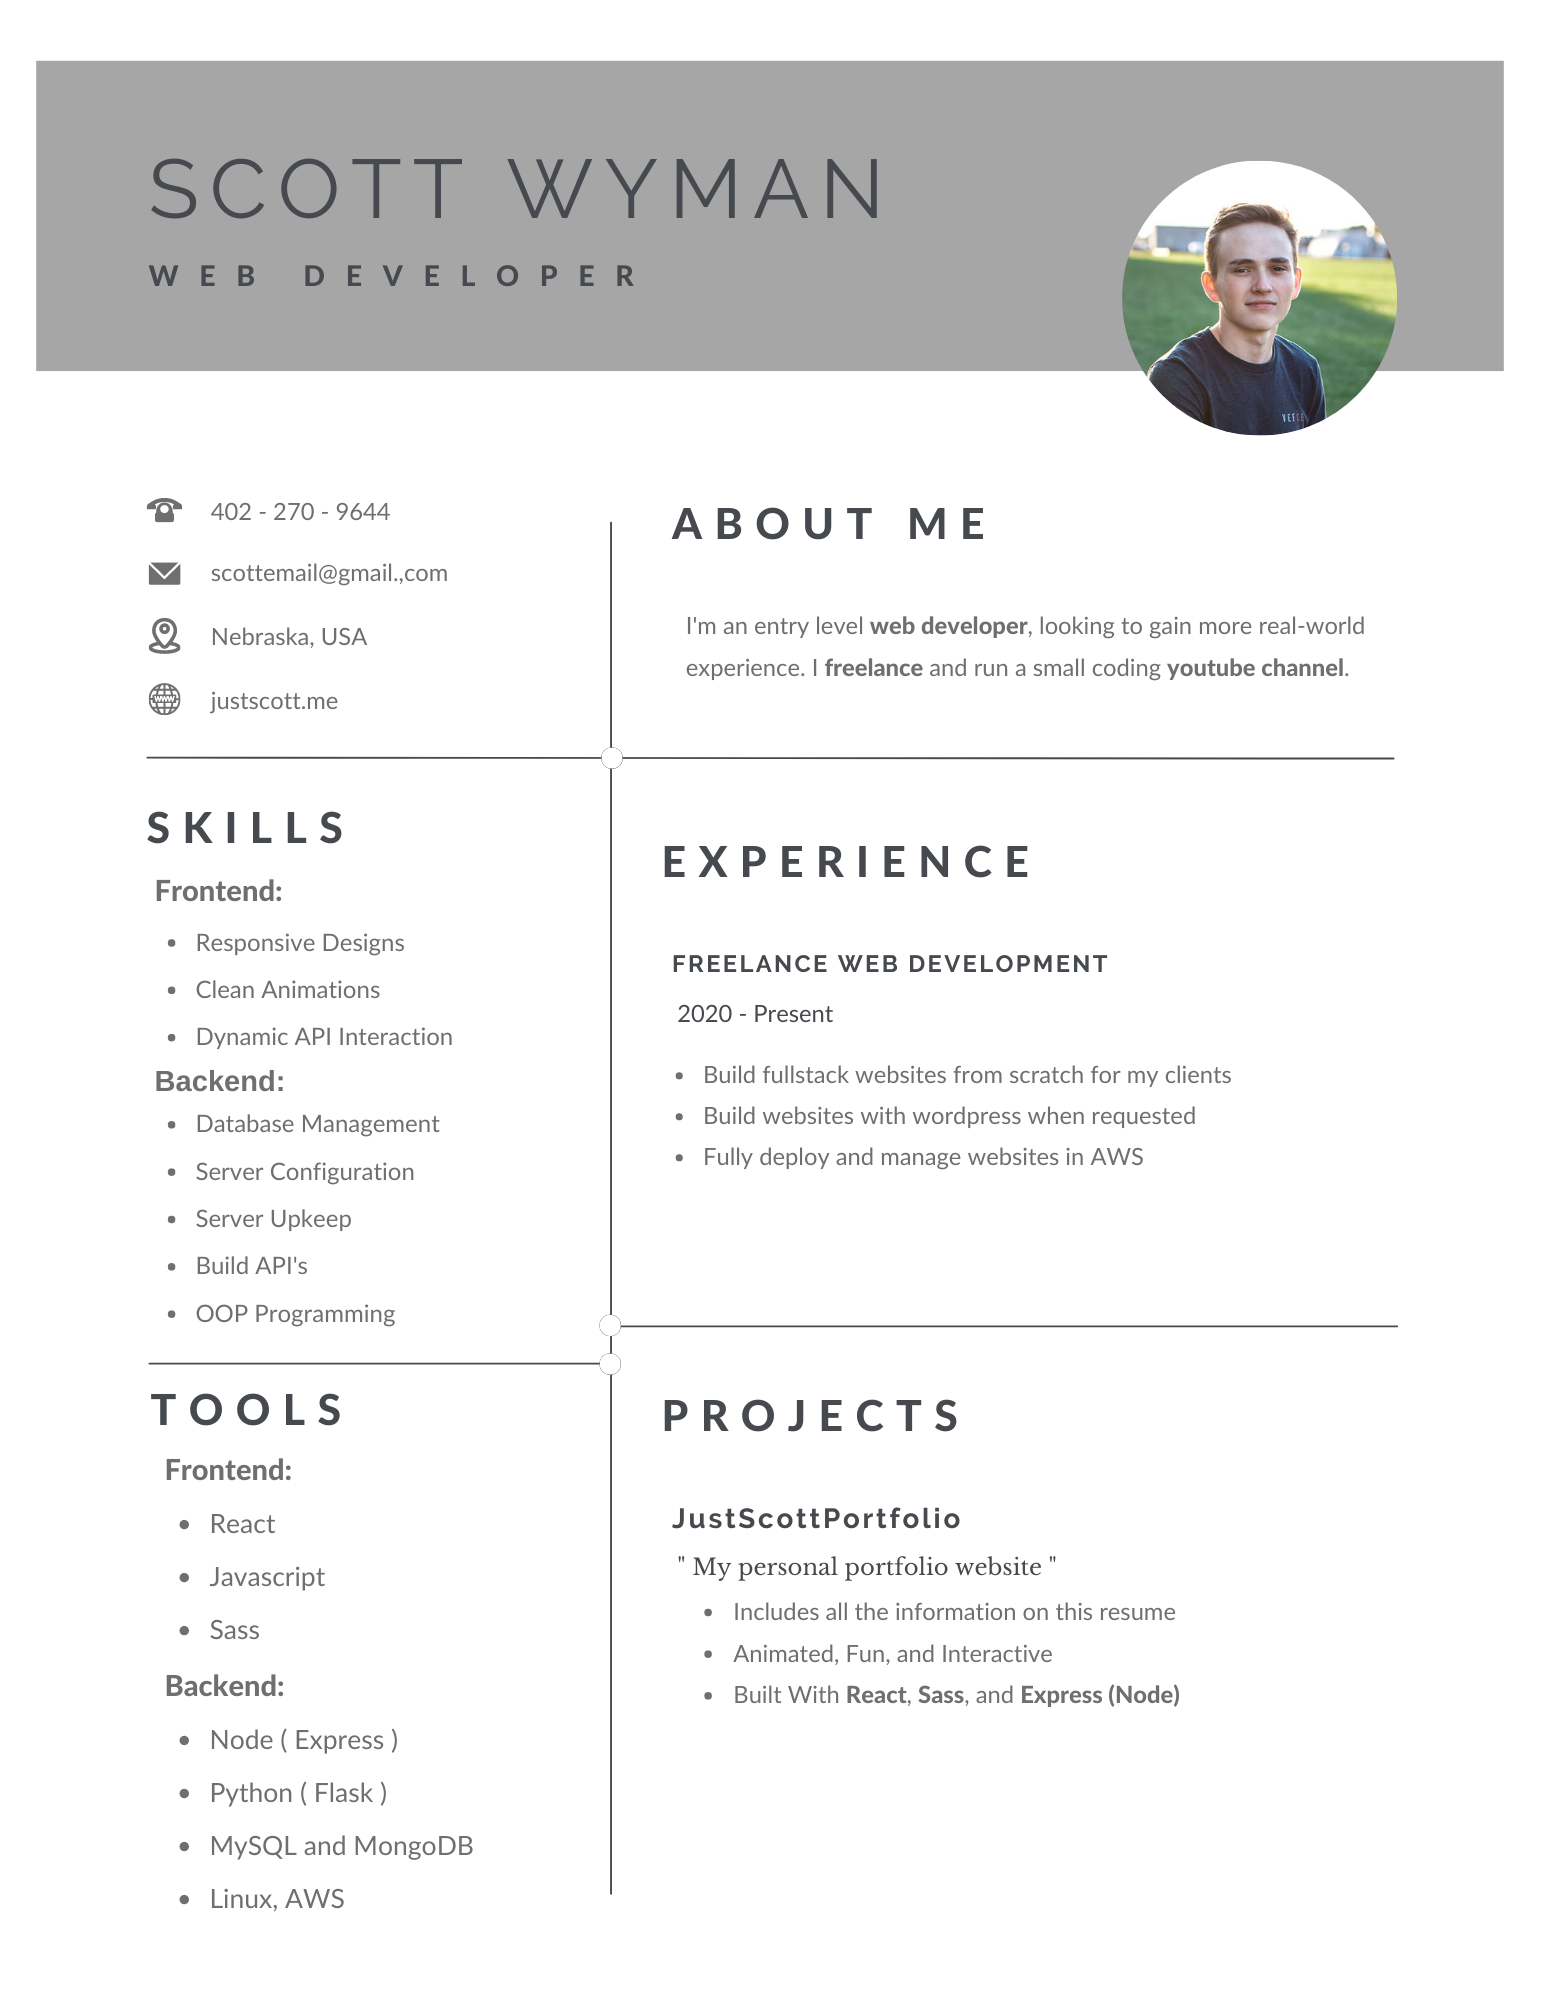
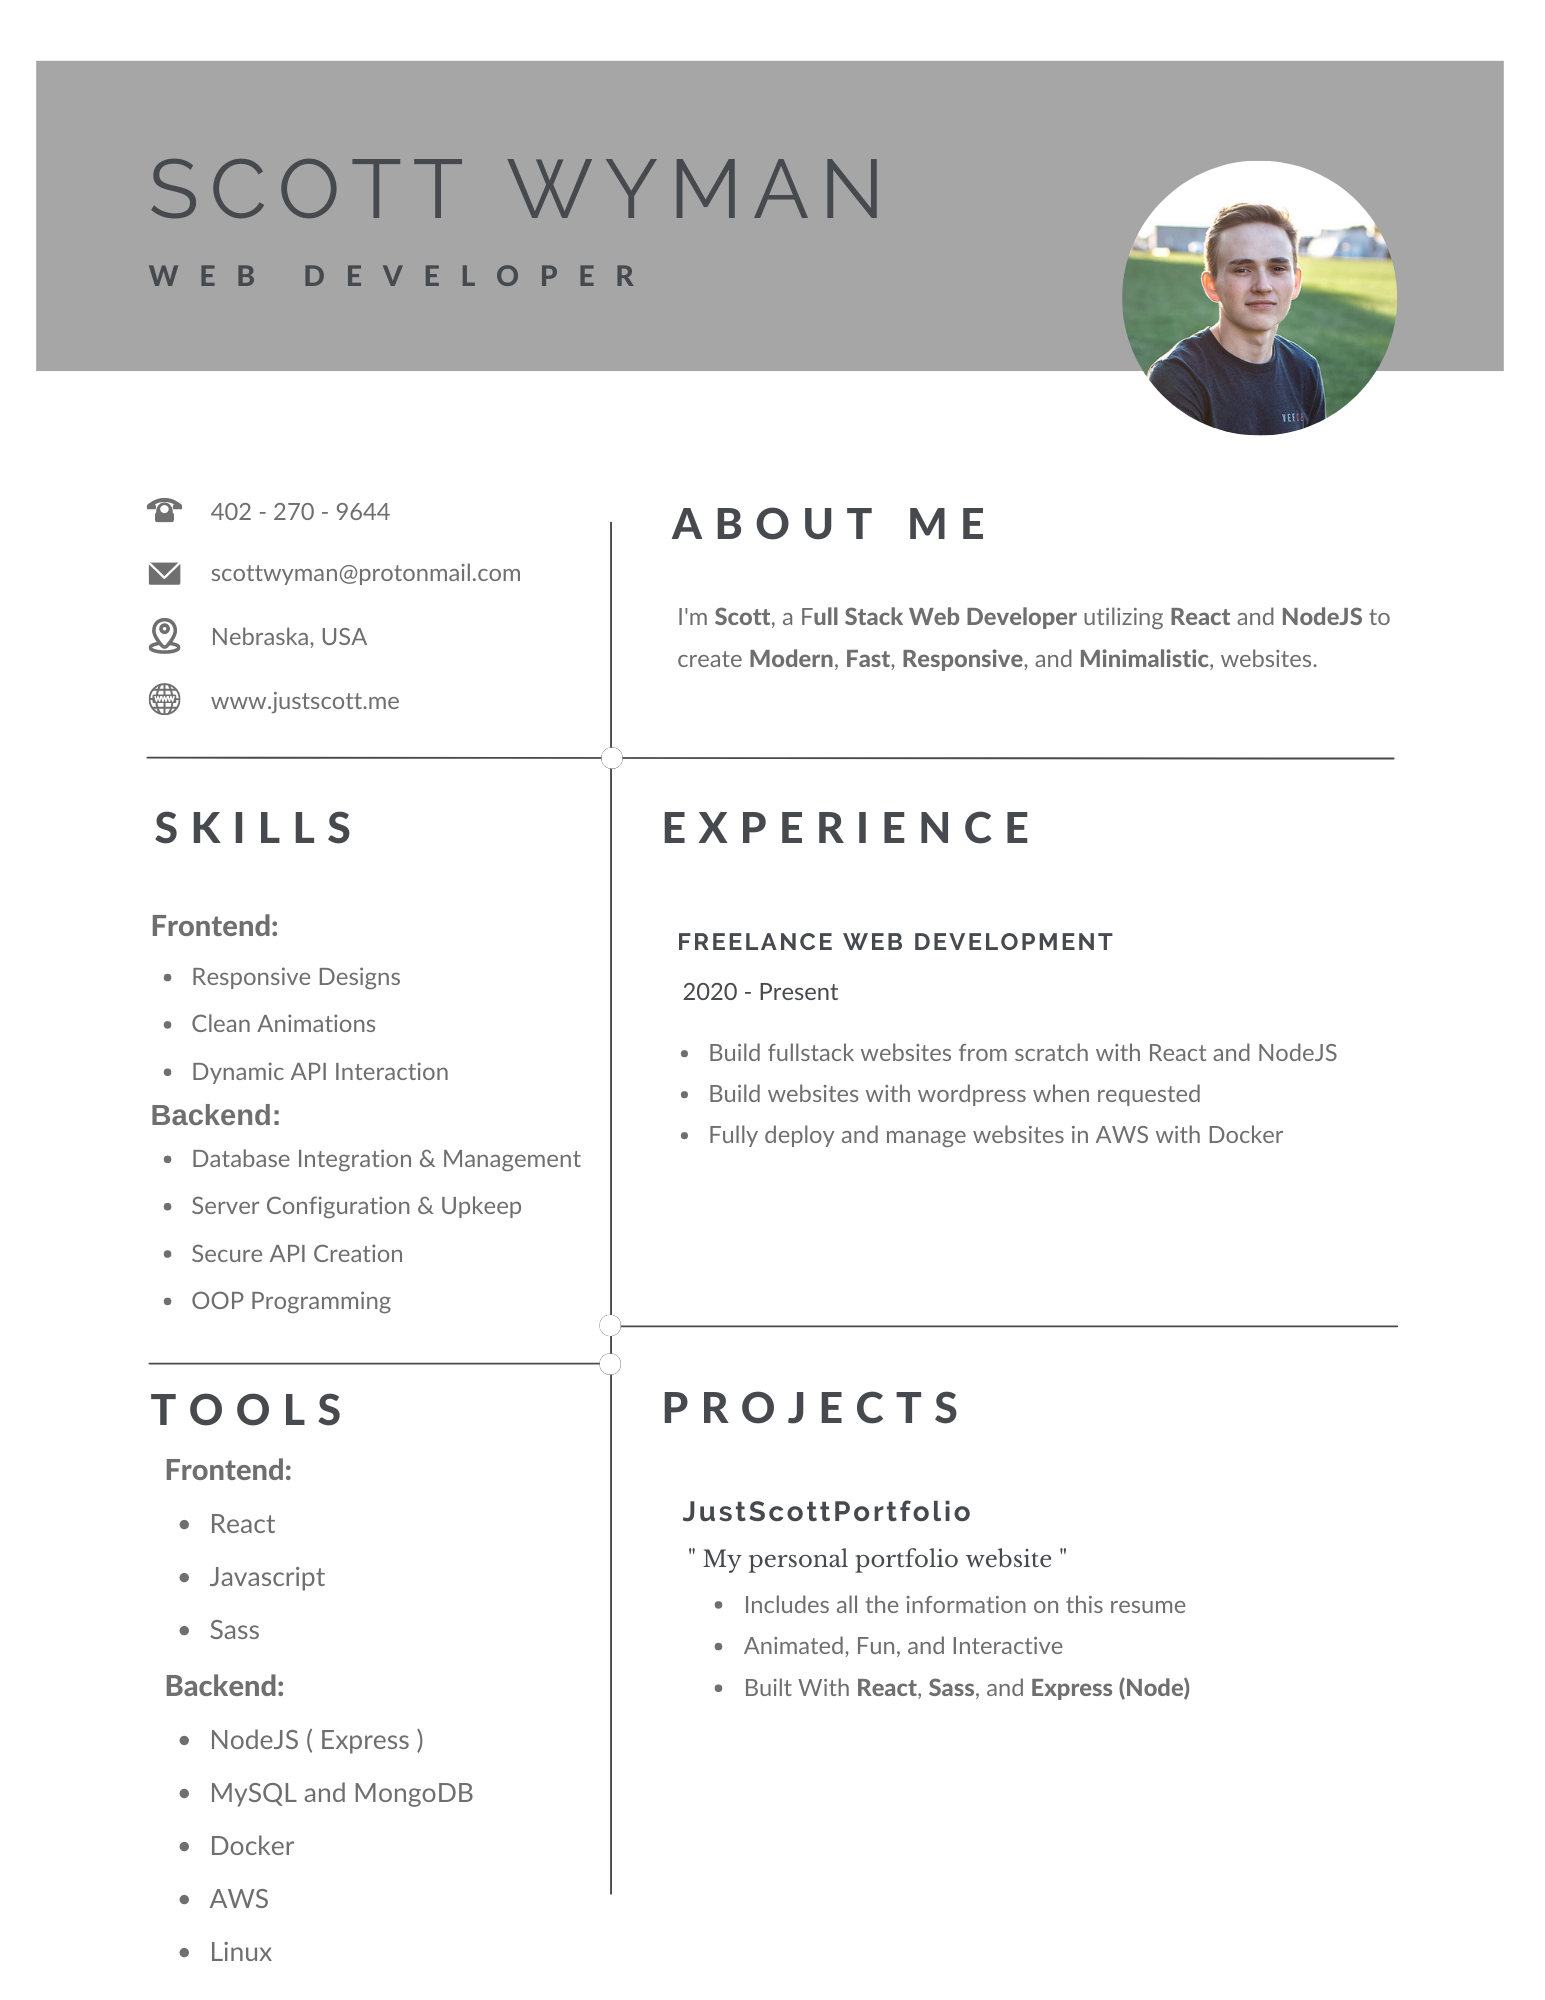
Updated the resume, animations, and text content

diff --git a/react-app/src/components/Home.js b/react-app/src/components/Home.js
@@ -39,16 +39,15 @@ export default class Home extends React.Component {
 function Intro() {
     return (
         <div className='intro_section' id='intro_section'>
-            <img src='bodyshot.jpg' alt='Me'/>
+            <img src='headshot.png' alt='Me' className='intro_img_mobile'/>
+            <img src='bodyshot.jpg' alt='Me' className='intro_img_desktop'/>
             <div className='text_side'>
                 <p className='desktop_about_text'>
-                    This is filler text about me an what I do, this should be
-                    around two sentences long. So that means I need to make this
-                    another sentence long just like this.
+                    I'm <b>Scott</b>, a <b>Full Stack Web Developer</b> utilizing <b>React</b> and <b>NodeJS</b> to create  
+                    <b> Modern, Fast, Responsive</b>, and <b>Minimalistic</b>, websites.
                 </p>
                 <p className='mobile_about_text'>
-                    This is mobile filler text, that will be much more consice to save
-                    space.
+                    I'm <b>Scott</b>. I create <b> Modern</b>, <b>Fast</b>, <b>Responsive</b>, and <b>Minimalistic</b>, websites.
                 </p>
                 <button onClick={() => {window.print()}}>Resume</button>
             </div>
@@ -65,13 +64,13 @@ function Skills() {
                     <p className='selected_item_text'>Click a Logo to learn more.</p>
                 </div>
                 <img src='python_logo.png' alt='Python Logo' onClick={() => {updateText('Python')}}/>
-                <img src='node_logo.png' alt='Python Logo' onClick={() => {updateText('Node')}}/>
-                <img src='react_logo.png' alt='Python Logo' onClick={() => {updateText('React')}}/>
-                <img src='sass_logo.png' alt='Python Logo' onClick={() => {updateText('Sass')}}/>
-                <img src='mysql_logo.png' alt='Python Logo' onClick={() => {updateText('MySQL')}}/>
-                <img src='mongodb_logo.png' alt='Python Logo' onClick={() => {updateText('MongoDB')}}/>
-                <img src='aws_logo.png' alt='Python Logo' onClick={() => {updateText('AWS')}}/>
-                <img src='linux_logo.png' alt='Python Logo' onClick={() => {updateText('Linux')}}/>
+                <img src='node_logo.png' alt='Node Logo' onClick={() => {updateText('Node')}}/>
+                <img src='react_logo.png' alt='React Logo' onClick={() => {updateText('React')}}/>
+                <img src='sass_logo.png' alt='Sass Logo' onClick={() => {updateText('Sass')}}/>
+                <img src='mysql_logo.png' alt='MySQL Logo' onClick={() => {updateText('MySQL')}}/>
+                <img src='mongodb_logo.png' alt='MongoDB Logo' onClick={() => {updateText('MongoDB')}}/>
+                <img src='aws_logo.png' alt='AWS Logo' onClick={() => {updateText('AWS')}}/>
+                <img src='linux_logo.png' alt='Linux Logo' onClick={() => {updateText('Linux')}}/>
             </div>
         </div>
     );
@@ -80,38 +79,35 @@ function Skills() {
         const skills = {
             'Python': 
                 `
-                I've been using python for hobby projects, for a few years now.
+                Python was my first language, and I've uploaded a few packages to the python package index.
                 `,
             'Node': 
                 `
-                While I'm relatively new to node, I've been using/learning Javascript for
-                a few years now.
+                Node allows me to use my javascript skills on the server side.
                 `,
             'React': 
                 `
-                React is my go-to tool for front-end development, and I'm learning more
-                about it everyday!
+                React is my go-to tool for front-end development!
                 `,
             'Sass': 
                 `
-                I started with Sass not too long ago, but have been using css for years.
+                Sass makes my css development much more efficient.
                 `,
             'MySQL': 
                 `
-                MySQL and SQLite3 have been database choice for many small projects over the years.
+                MySQL is a great tool for structure data storage!
                 `,
             'MongoDB': 
                 `
-                MongoDB is to new to me, but I'm quite enjoying the ease of use and speed!
+                MongoDB is a great tool for fast, unstructured data storage!
                 `,
             'AWS': 
                 `
-                I'm working towards the 'Cloud Practitioner' certifcation, and so far this service
-                continues to intrigue and amaze me!
+                AWS is used everywhere, thats why I'm working towards the 'Cloud Practitioner' certification!
                 `,
             'Linux': 
                 `
-                I've used Linux as a daily driver for years now, it's absolutely my favorite thing, Ever.
+                I've used Linux as a daily driver for years now, its an integral part of my workflow!
                 `,
         }
 
@@ -127,13 +123,29 @@ function Skills() {
 function Projects() {
 
     useEffect(() => {
+        const container = document.querySelector('#projects_section');
+        const arrow = document.querySelector('#floating_arrow');
+
+        if (window.screen.width < 750) {
+            if (animations.checkInView(container)) {
+                arrow.style['-webkit-animation-name'] = 'floating-arrow';
+                arrow.addEventListener("animationend", () => {
+                    arrow.style.display = 'none';
+                });
+            }else {
+                setTimeout(() => {
+                    arrow.style.display = 'flex';
+                }, 1000)
+            }
+        }
+
         window.addEventListener('scroll', () => {
             const container = document.querySelector('#projects_section');
             const arrow = document.querySelector('#floating_arrow');
 
             if (window.screen.width < 750) {
                 if (animations.checkInView(container)) {
-                    arrow.style.animationName = 'floating-arrow';
+                    arrow.style['-webkit-animation-name'] = 'floating-arrow';
                     arrow.addEventListener("animationend", () => {
                         arrow.style.display = 'none';
                     });

diff --git a/react-app/src/static/scss/home.scss b/react-app/src/static/scss/home.scss
@@ -3,7 +3,8 @@
 
 /* Tells the window what to show when calling window.print() */
 @media print {
-    @page { size: auto; margin: 0;}
+    @page { size: A4; margin: 0;}
+    body { width: 210mm; }
 
     #resume {
         position: fixed;
@@ -50,9 +51,9 @@
                     background-color: $text;
                     box-shadow: 0 0 3px 3px $primary;
                 } 
-            
+           
                 $distance: calc(100px + 12vw);
-                $corner-distance: calc(70px + 9vw);
+                $corner-distance: calc(70px + 10vw);
 
                 // Top
                 &:nth-child(2) {
@@ -105,19 +106,21 @@
             @include flex-center;
             flex-direction: column;
             width: 80%;
+            height: 80vh;
             max-width: 350px;
-            margin: 60px auto;
-            background-color: $primary;
+            margin: 0 auto;
             border-radius: .5rem;
             scroll-margin-top: 40px;
         
-            img {
-                width: 55%;
-                max-width: 140px;
-                margin: 10px;
-                box-shadow: 7px 7px 10px;
+            .intro_img_desktop {display: none}
+
+            .intro_img_mobile {
+                width: calc(130px + 18vw);
+                height: calc(130px + 18vw);
+                border-radius: 100%;
+                margin: 5vh;
+                box-shadow: 7px 7px 10px $primary;
                 transition-duration: .2s;
-                border-radius: .5rem;
 
                 &:hover {
                     box-shadow: none;
@@ -127,13 +130,13 @@
             .text_side {
                 @include flex-center;
                 flex-direction: column;
-                width: 80%;
+                width: 90%;
 
                 .desktop_about_text {display: none;}
                 .mobile_about_text {
-                    font-size: calc($small-font + 1px);
+                    @include font(calc($small-font + 4px), light);
                     text-align: center;
-                    color: $text;
+                    color: $primary;
                     padding: 10px 0;
                     border: 1px solid $text;
                     border-left:none;
@@ -142,11 +145,10 @@
 
                 button {
                     @include button($text, $primary);
-                    font-size: calc($medium-font - 2px);
-                    padding: 8px 15px;
-                    margin-top: 6px;
-                    margin-bottom: 16px;
-                
+                    font-size: calc($medium-font + 2px);
+                    padding: 12px 20px;
+                    margin: 5vh;
+
                     &:hover {
                         background-color: $contrast;
                         color: $text;
@@ -158,8 +160,8 @@
             .selected_item_text_container {
                 @include flex-center;
                 flex-direction: column;
-                width: calc(80px + 30vw);
-                height: calc(80px + 30vw);
+                width: calc(95px + 23vw);
+                height: calc(95px + 23vw);
                 text-align: center;
                 color: $primary;
                 border: 3px solid $primary;
@@ -194,6 +196,7 @@
             padding: 25px;
 
             .floating_arrow {
+                display: none;
                 @include flex-center;
                 position: absolute;
                 top: 0;
@@ -209,14 +212,14 @@
                 cursor: pointer;
                 transition-duration: .2s;
 
-                animation: {
+                -webkit-animation: {
                     duration: .6s;
                     timing-function: linear;
                     iteration-count: 4;
                 }
 
                 @keyframes floating-arrow {
-                    from {
+                    0% {
                         -webkit-transform: translate(20px);
                         transform: translate(20px);
                     }
@@ -224,7 +227,7 @@
                         -webkit-transform: translate(5px);
                         transform: translate(5px);
                     }
-                    to {
+                    100% {
                         -webkit-transform: translate(20px);
                         transform: translate(20px);
                     }
@@ -340,7 +343,9 @@
             color: $primary;
             scroll-margin-top: 200px;
 
-            img {
+            .intro_img_mobile {display: none}
+
+            .intro_img_desktop {
                 display: block;
                 width: 25vw;
                 max-width: 350px;
@@ -354,15 +359,14 @@
             }
             .text_side {
                 text-align: center;
-                width: 50%;
+                width: 60%;
                 max-width: 500px;
                 margin-left: 10%;
                 align-self: center;	
             
                 .mobile_about_text {display: none;}
                 .desktop_about_text {
-                    @include font($medium-font, bold);
-                    font-weight: bold;
+                    @include font($medium-font, light);
                     font-size: calc(.6rem + .8vw);
                     color: $primary;
                 }

diff --git a/react-app/src/static/scss/layout.scss b/react-app/src/static/scss/layout.scss
@@ -210,8 +210,8 @@ body {
             position: fixed;
             bottom: 80px;
             right: 10px;
-            width: 30px;
-            height: 30px;
+            width: 40px;
+            height: 40px;
             padding: 10px;
             border-radius: 50%;
             z-index: 1000;
@@ -233,7 +233,7 @@ body {
             }
         
             .contact_icon {
-                font-size: 1.4rem;
+                font-size: 1.6rem;
             }
         }
         .contact_form_background {

diff --git a/react-app/src/components/Layout.js b/react-app/src/components/Layout.js
@@ -142,7 +142,7 @@ function Navbar() {
             let navbarLinks = document.querySelector('.navbar_external_links');
 
             // Maximize the Navbar
-            navbarContainer.style.height = '100vh';
+            navbarContainer.style.height = '100%';
             navbarContainer.style.borderRadius = 0;
             navbarIcon.style.animationName = 'downArrow';
 
